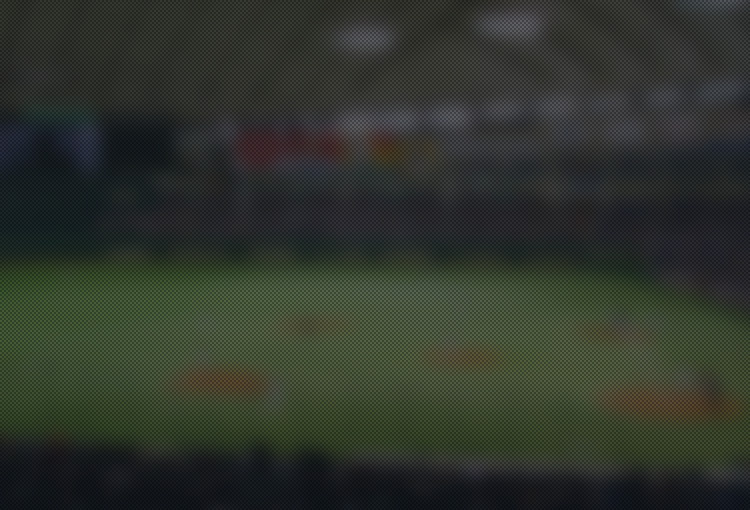
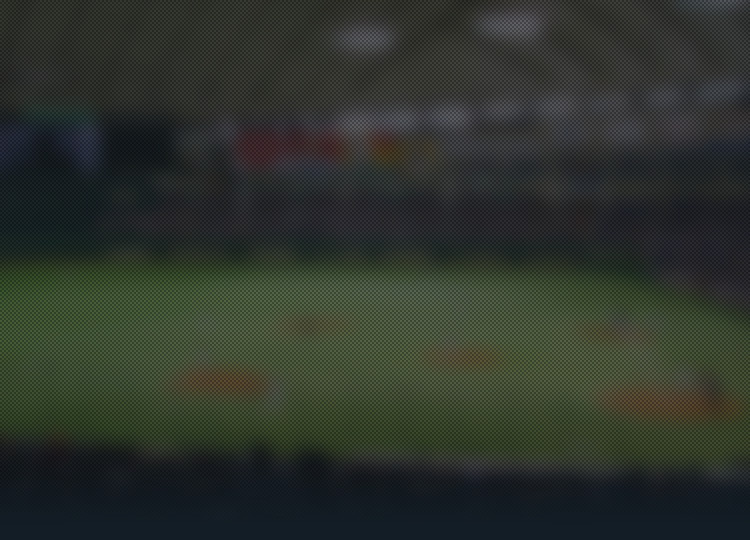
WBC速報ページ : Widgetを3に変更 #1621

diff --git a/_src/app/wbc/index.html b/_src/app/wbc/index.html
@@ -77,13 +77,8 @@
       <section class="main-sec">
         <h2 class="heading"><img src="/assets/images/wbc/heading.png" alt="野球日本代表 速報 2017 WORLD BASEBALL CLASSIC"></h2>
 
-        <div id="datastadium-widget4" data-mode="wbc" data-theme="dark" data-reload="polling"></div>
-        <script src="https://widget.sportsbull.jp/static/wbc/v1/widget4.js"></script>
-
-        <div class="spacer">&nbsp;</div>
-
-        <div id="datastadium-widget5" data-mode="wbc" data-theme="dark" data-reload="polling"></div>
-        <script src="https://widget.sportsbull.jp/static/wbc/v1/widget5.js"></script>
+        <div id="datastadium-widget3" data-mode="wbc" data-theme="dark" data-reload="polling"></div>
+        <script src="https://widget.sportsbull.jp/static/wbc/v1/widget3.js"></script>
       </section><!-- /.main-sec -->
 
       <section class="side-sec show-for-large">

diff --git a/public/wbc/index.html b/public/wbc/index.html
@@ -77,13 +77,8 @@
       <section class="main-sec">
         <h2 class="heading"><img src="/assets/images/wbc/heading.png" alt="野球日本代表 速報 2017 WORLD BASEBALL CLASSIC"></h2>
 
-        <div id="datastadium-widget4" data-mode="wbc" data-theme="dark" data-reload="polling"></div>
-        <script src="https://widget.sportsbull.jp/static/wbc/v1/widget4.js"></script>
-
-        <div class="spacer">&nbsp;</div>
-
-        <div id="datastadium-widget5" data-mode="wbc" data-theme="dark" data-reload="polling"></div>
-        <script src="https://widget.sportsbull.jp/static/wbc/v1/widget5.js"></script>
+        <div id="datastadium-widget3" data-mode="wbc" data-theme="dark" data-reload="polling"></div>
+        <script src="https://widget.sportsbull.jp/static/wbc/v1/widget3.js"></script>
       </section><!-- /.main-sec -->
 
       <section class="side-sec show-for-large">

diff --git a/_src/app/assets/sp/css/wbc/module/_index.scss b/_src/app/assets/sp/css/wbc/module/_index.scss
@@ -23,7 +23,7 @@
 .body-sec-inner {
   background-color: #131d25 !important;
   background: url(/assets/sp/images/wbc/bg.jpg) center 0 no-repeat;
-  background-size: contain;
+  background-size: 100%;
 }
 
 .main-sec {
